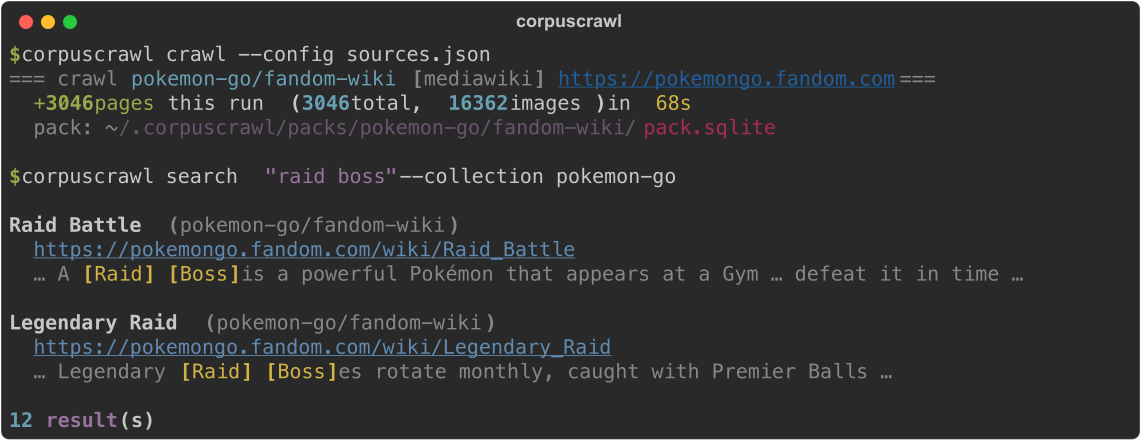
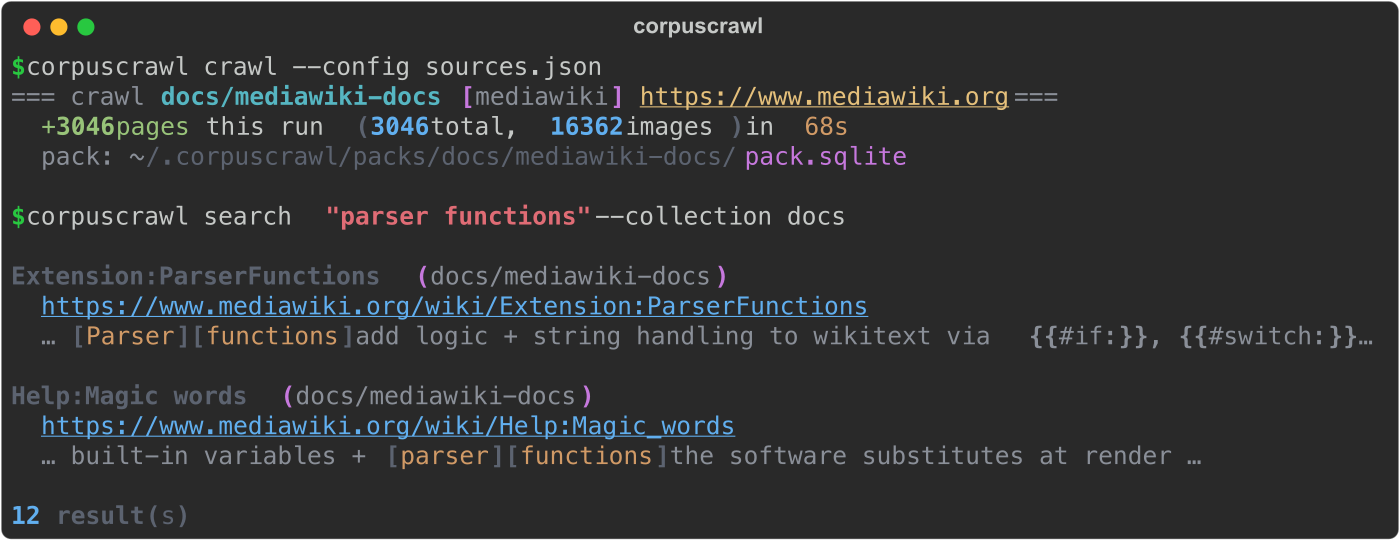
docs: genericize examples to a neutral MediaWiki corpus (fully domain-agnostic)
corpuscrawl is a universal scraper, but the README, CLI/config docstrings, tests,
and the hero demo all used one specific wiki as the running example. Swap every
example to a neutral, self-explanatory MediaWiki-docs corpus (mediawiki.org →
collection "docs", search "parser functions") so the repo reads as the
domain-agnostic tool it is — no single subject baked into the showcase.

- README: quickstart, config, "Try it", and "A look inside" demo → docs/mediawiki-docs
- cli.py / config.py: docstring examples → the neutral corpus
- core.py: UA comment reworded (MediaWiki + crawler etiquette)
- tests: fixtures/assertions → neutral wiki content (templates / parser functions);
  slug + FTS + snippet-highlight behaviour unchanged, all 20 tests green
- docs/screenshots/demo.{svg,png}: hero regenerated (rich → rsvg) with the neutral demo

No behaviour change; pure documentation/example neutralization.

diff --git a/tests/test_config_search.py b/tests/test_config_search.py
@@ -17,7 +17,7 @@ def test_load_config_object(tmp_path: pathlib.Path):
     p.write_text(json.dumps({
         "collection": "kb",
         "sources": [
-            {"id": "wiki", "name": "Wiki", "type": "mediawiki", "url": "https://x.fandom.com", "scrape": True},
+            {"id": "wiki", "name": "Wiki", "type": "mediawiki", "url": "https://wiki.example.org", "scrape": True},
             {"id": "tool", "name": "Tool", "type": "tool", "url": "https://tool.example"},
         ],
     }))
@@ -63,10 +63,10 @@ def test_load_config_missing_file():
 
 
 def test_sources_from_url_derives_id():
-    srcs = sources_from_url("https://pokemongo.fandom.com", type="mediawiki")
+    srcs = sources_from_url("https://wiki.example.org", type="mediawiki")
     assert len(srcs) == 1
     assert srcs[0]["type"] == "mediawiki" and srcs[0]["scrape"] is True
-    assert srcs[0]["id"] == "pokemongo-fandom-com"
+    assert srcs[0]["id"] == "wiki-example-org"
 
 
 def test_validate_source_ok():
@@ -77,20 +77,21 @@ def test_validate_source_ok():
 
 def _seed(tmp_path):
     pack = CorpusPack("c", "s", packs_dir=tmp_path)
-    pack.upsert_page(title="Raid Battle", url="https://x/wiki/Raid",
-                     plaintext="A raid boss is a powerful Pokemon at a gym. Defeat it in time.",
-                     categories=["Category:Battle"], sections=[{"level": 2, "title": "Overview"}])
-    pack.upsert_page(title="Shiny", url="https://x/wiki/Shiny", plaintext="Shiny Pokemon have alternate colors.")
+    pack.upsert_page(title="Parser Functions", url="https://x/wiki/ParserFunctions",
+                     plaintext="A parser function adds logic to a template on a wiki. Evaluate it at render time.",
+                     categories=["Category:Help"], sections=[{"level": 2, "title": "Overview"}])
+    pack.upsert_page(title="Magic Words", url="https://x/wiki/MagicWords",
+                     plaintext="Magic words are variables the wiki software substitutes when a page renders.")
     pack.commit()
     return pack
 
 
 def test_search_ranks_and_snippets(tmp_path: pathlib.Path):
     pack = _seed(tmp_path)
-    hits = search_pack(pack, "raid boss")
-    assert hits and hits[0]["title"] == "Raid Battle"
-    assert "[raid]".lower() in hits[0]["snippet"].lower() or "raid" in hits[0]["snippet"].lower()
-    assert hits[0]["url"].endswith("/Raid")
+    hits = search_pack(pack, "parser function")
+    assert hits and hits[0]["title"] == "Parser Functions"
+    assert "[parser]".lower() in hits[0]["snippet"].lower() or "parser" in hits[0]["snippet"].lower()
+    assert hits[0]["url"].endswith("/ParserFunctions")
     pack.close()
 
 
@@ -103,8 +104,8 @@ def test_search_handles_punctuation_and_empty(tmp_path: pathlib.Path):
 
 def test_get_page(tmp_path: pathlib.Path):
     pack = _seed(tmp_path)
-    page = get_page(pack, "Raid Battle")
-    assert page and page["categories"] == ["Category:Battle"]
+    page = get_page(pack, "Parser Functions")
+    assert page and page["categories"] == ["Category:Help"]
     assert page["sections"][0]["title"] == "Overview"
     assert get_page(pack, "Missing") is None
     pack.close()

diff --git a/tests/test_engine.py b/tests/test_engine.py
@@ -53,13 +53,13 @@ def test_wall_detection_css_heavy_shell():
 # ── wikitext → plaintext / sections ─────────────────────────────────────────────────────────────
 
 def test_wikitext_strips_templates_links_tables():
-    wt = ("{{Infobox|a=1}}\nA '''Raid''' is a [[Gym|gym]] battle.<ref>cite</ref>\n"
-          "{| class=wikitable\n|foo\n|}\n== Mechanics ==\n[[File:Pic.png|thumb]]Body.")
+    wt = ("{{Infobox|a=1}}\nA '''Template''' is a [[Page|page]] element.<ref>cite</ref>\n"
+          "{| class=wikitable\n|foo\n|}\n== Syntax ==\n[[File:Pic.png|thumb]]Body.")
     out = wikitext_to_plaintext(wt)
     assert "Infobox" not in out and "{{" not in out
     assert "wikitable" not in out and "foo" not in out
     assert "cite" not in out and "Pic.png" not in out
-    assert "gym battle" in out and "Body." in out and "Mechanics" in out
+    assert "page element" in out and "Body." in out and "Syntax" in out
     assert "'''" not in out and "==" not in out
 
 
@@ -80,19 +80,19 @@ def test_extract_readable_lxml_fallback():
 
 def test_pack_roundtrip_and_fts(tmp_path: pathlib.Path):
     with CorpusPack("c", "s", packs_dir=tmp_path) as pack:
-        pack.upsert_page(title="Raid Battles", url="https://x/wiki/Raid",
-                         plaintext="A raid is a cooperative gym battle.", revid=42)
-        pack.upsert_page(title="Eggs", url="https://x/wiki/Eggs", plaintext="Eggs hatch after walking.")
+        pack.upsert_page(title="Templates", url="https://x/wiki/Templates",
+                         plaintext="A template is a reusable wiki fragment.", revid=42)
+        pack.upsert_page(title="Categories", url="https://x/wiki/Categories", plaintext="Categories group related pages.")
         pack.commit()
         assert pack.counts()["pages"] == 2
-        assert pack.has_page("Raid Battles") and not pack.has_page("Missing")
-        hits = [r[0] for r in pack.db.execute("SELECT title FROM pages_fts WHERE pages_fts MATCH 'gym'")]
-        assert "Raid Battles" in hits and "Eggs" not in hits
+        assert pack.has_page("Templates") and not pack.has_page("Missing")
+        hits = [r[0] for r in pack.db.execute("SELECT title FROM pages_fts WHERE pages_fts MATCH 'template'")]
+        assert "Templates" in hits and "Categories" not in hits
         # idempotent update keeps FTS coherent
-        pack.upsert_page(title="Eggs", plaintext="Eggs now mention gyms too.")
+        pack.upsert_page(title="Categories", plaintext="Categories can also embed a template.")
         pack.commit()
-        hits2 = [r[0] for r in pack.db.execute("SELECT title FROM pages_fts WHERE pages_fts MATCH 'gym'")]
-        assert "Eggs" in hits2
+        hits2 = [r[0] for r in pack.db.execute("SELECT title FROM pages_fts WHERE pages_fts MATCH 'template'")]
+        assert "Categories" in hits2
 
 
 def test_pack_images(tmp_path: pathlib.Path):

diff --git a/corpuscrawl/cli.py b/corpuscrawl/cli.py
@@ -1,10 +1,10 @@
 """cli.py — the corpuscrawl command line.
 
   corpuscrawl crawl --config sources.json                 # crawl every scrapeable source
-  corpuscrawl crawl --url https://x.fandom.com --type mediawiki --collection x   # quickstart, no file
-  corpuscrawl search "raid boss" --collection pokemon-go  # full-text search the pack(s)
-  corpuscrawl list [--collection pokemon-go]              # collections / sources + pack stats
-  corpuscrawl info --collection pokemon-go --source fandom-wiki   # provenance
+  corpuscrawl crawl --url https://www.mediawiki.org --type mediawiki --collection docs  # quickstart, no file
+  corpuscrawl search "parser functions" --collection docs # full-text search the pack(s)
+  corpuscrawl list [--collection docs]                    # collections / sources + pack stats
+  corpuscrawl info --collection docs --source mediawiki-org   # provenance
   corpuscrawl reprocess --config sources.json            # re-derive plaintext from stored wikitext
 """
 from __future__ import annotations

diff --git a/corpuscrawl/config.py b/corpuscrawl/config.py
@@ -3,10 +3,10 @@
 A config is domain-agnostic — a collection name plus a list of source specs:
 
     {
-      "collection": "pokemon-go",
+      "collection": "docs",
       "sources": [
-        {"id": "fandom-wiki", "name": "Fandom Wiki", "type": "mediawiki",
-         "url": "https://pokemongo.fandom.com", "scrape": true},
+        {"id": "mediawiki-docs", "name": "MediaWiki Docs", "type": "mediawiki",
+         "url": "https://www.mediawiki.org", "scrape": true},
         {"id": "guides", "name": "Guides", "type": "web",
          "url": "https://example.com/guides", "scrape": true},
         {"id": "tool-x", "name": "Tool X", "type": "tool", "url": "https://tool.example"}

diff --git a/corpuscrawl/core.py b/corpuscrawl/core.py
@@ -27,7 +27,7 @@ import httpx
 
 log = logging.getLogger("corpuscrawl")
 
-# Honest, contactable UA — MediaWiki/Fandom etiquette asks for identification + purpose.
+# Honest, contactable UA — MediaWiki + crawler etiquette asks for identification + purpose.
 USER_AGENT = os.environ.get(
     "CORPUSCRAWL_UA",
     "corpuscrawl/1.0 (+https://github.com/convenientlymike/corpuscrawl)",

diff --git a/README.md b/README.md
@@ -33,7 +33,7 @@ famously false-negatives an explicitly-*allowed* path).
 **corpuscrawl** solves all of that once, universally:
 
 - **One command → a searchable local corpus.** `corpuscrawl crawl --config sources.json` builds a
-  SQLite + FTS5 pack per source; `corpuscrawl search "raid boss"` returns ranked hits with snippets in
+  SQLite + FTS5 pack per source; `corpuscrawl search "parser functions"` returns ranked hits with snippets in
   milliseconds, offline.
 - **Domain-agnostic.** A *collection* is any namespace you choose (a project, a topic, a game, a
   product). The engine has zero knowledge of your domain — sources are pure config.
@@ -77,8 +77,8 @@ no sign-up. Install, then build and search a corpus in three lines:
 
 ```bash
 pip install corpuscrawl
-corpuscrawl crawl --url https://pokemongo.fandom.com --type mediawiki --collection demo --max-pages 50
-corpuscrawl search "shiny odds" --collection demo
+corpuscrawl crawl --url https://www.mediawiki.org --type mediawiki --collection docs --max-pages 50
+corpuscrawl search "parser functions" --collection docs
 ```
 
 > A hosted playground (StackBlitz / GitHub Pages) is **N/A** here — corpuscrawl runs against real
@@ -92,8 +92,8 @@ pip install corpuscrawl                 # core (MediaWiki + static web)
 pip install "corpuscrawl[all]"          # + browser fallback, trafilatura, YAML configs
 
 # quickstart — no config file: crawl one wiki, then search it
-corpuscrawl crawl --url https://pokemongo.fandom.com --type mediawiki --collection pokemon-go
-corpuscrawl search "raid boss" --collection pokemon-go
+corpuscrawl crawl --url https://www.mediawiki.org --type mediawiki --collection docs
+corpuscrawl search "parser functions" --collection docs
 ```
 
 The browser-escalation tier uses a Chrome-for-Testing binary if one is present (from a prior
@@ -105,10 +105,10 @@ HTTP and just skips the escalation.
 ```jsonc
 // sources.json
 {
-  "collection": "pokemon-go",
+  "collection": "docs",
   "sources": [
-    { "id": "fandom-wiki", "name": "Fandom Wiki", "type": "mediawiki",
-      "url": "https://pokemongo.fandom.com", "scrape": true },
+    { "id": "mediawiki-docs", "name": "MediaWiki Docs", "type": "mediawiki",
+      "url": "https://www.mediawiki.org", "scrape": true },
     { "id": "guides", "name": "Guides", "type": "web",
       "url": "https://example.com/guides", "scrape": true },
     { "id": "toolsite", "name": "A Tool", "type": "tool", "url": "https://tool.example" }
@@ -118,29 +118,29 @@ HTTP and just skips the escalation.
 
 ```bash
 corpuscrawl crawl --config sources.json          # crawl every scrapeable source
-corpuscrawl list  --collection pokemon-go        # sources + page/image counts
-corpuscrawl info  --collection pokemon-go --source fandom-wiki   # provenance
-corpuscrawl search "shiny odds" --collection pokemon-go
+corpuscrawl list  --collection docs              # sources + page/image counts
+corpuscrawl info  --collection docs --source mediawiki-docs   # provenance
+corpuscrawl search "parser functions" --collection docs
 ```
 
 ## 📸 A look inside
 
-Building a corpus from a wiki (2,845 articles + 16,362 image URLs in ~70s), then searching it offline:
+Building a corpus from a wiki (3,046 articles + 16,362 image URLs in ~70s), then searching it offline:
 
 ```console
 $ corpuscrawl crawl --config sources.json
-=== crawl pokemon-go/fandom-wiki [mediawiki] https://pokemongo.fandom.com ===
+=== crawl docs/mediawiki-docs [mediawiki] https://www.mediawiki.org ===
   +3046 pages this run (3046 total, 16362 images) in 68s
-  pack: ~/.corpuscrawl/packs/pokemon-go/fandom-wiki/pack.sqlite
+  pack: ~/.corpuscrawl/packs/docs/mediawiki-docs/pack.sqlite
 
-$ corpuscrawl search "raid boss" --collection pokemon-go
-Raid Battle  (pokemon-go/fandom-wiki)
-  https://pokemongo.fandom.com/wiki/Raid_Battle
-  … A [Raid] [Boss] is a powerful Pokémon that appears at a Gym … defeat it within the time limit …
+$ corpuscrawl search "parser functions" --collection docs
+Extension:ParserFunctions  (docs/mediawiki-docs)
+  https://www.mediawiki.org/wiki/Extension:ParserFunctions
+  … [Parser] [functions] add logic and string handling to wikitext via {{#if:}}, {{#switch:}} … 
 
-Legendary Raid  (pokemon-go/fandom-wiki)
-  https://pokemongo.fandom.com/wiki/Legendary_Raid
-  … Legendary [Raid] [Boss]es rotate monthly and can be caught with Premier Balls …
+Help:Magic words  (docs/mediawiki-docs)
+  https://www.mediawiki.org/wiki/Help:Magic_words
+  … built-in variables and [parser] [functions] the software substitutes when a page is rendered …
 
 12 result(s)
 ```
